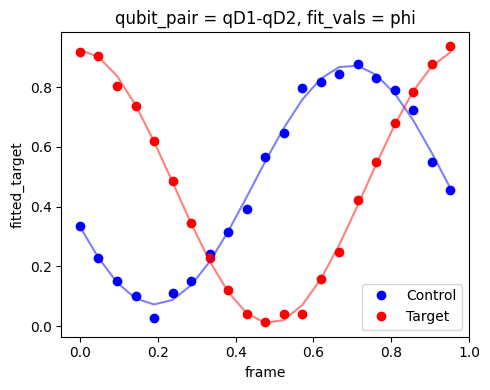
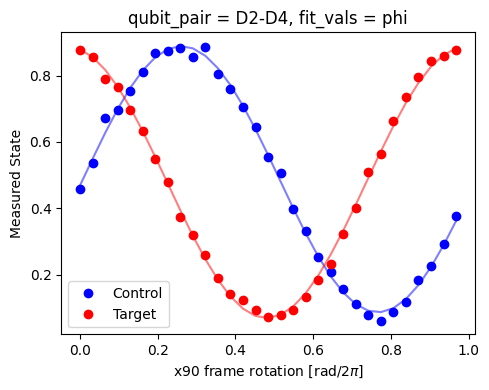
better individual phases plot

diff --git a/qualibration_graphs/superconducting/calibration_utils/cz_phase_compensation/plotting.py b/qualibration_graphs/superconducting/calibration_utils/cz_phase_compensation/plotting.py
@@ -38,7 +38,12 @@ def plot_raw_data_with_fit(ds_raw: xr.Dataset, qubit_pairs: Quam, ds_fit: xr.Dat
                     qp_fit_data.fitted_control.plot(ax=ax, color="blue", alpha=0.5)
                 if "fitted_target" in ds_fit.data_vars:
                     qp_fit_data.fitted_target.plot(ax=ax, color="red", alpha=0.5)
+        if "state_control" in ds_raw.data_vars:
+            ax.set_ylabel("Measured State")
+        else:
+            ax.set_ylabel("Rotated I Quadrature [V]")
 
+        ax.set_xlabel(r"x90 frame rotation [$\mathrm{rad}/2\pi$]")
         ax.legend()
 
     plt.tight_layout()

diff --git a/qualibration_graphs/superconducting/calibrations/CZ_calibration_fixed_couplers/21_cz_phase_compensation.py b/qualibration_graphs/superconducting/calibrations/CZ_calibration_fixed_couplers/21_cz_phase_compensation.py
@@ -58,9 +58,7 @@ node = QualibrationNode[Parameters, Quam](
 def custom_param(node: QualibrationNode[Parameters, Quam]):
     """Allow the user to locally set the node parameters for debugging purposes, or execution in the Python IDE."""
     # You can get type hinting in your IDE by typing node.parameters.
-    node.parameters.qubit_pairs = ["D2-D4"]
-    node.parameters.reset_type = "active"
-    node.parameters.use_state_discrimination = False
+    # node.parameters.qubit_pairs = ["q1-q2"]
     pass
 
 

diff --git a/qualibration_graphs/superconducting/calibrations/CZ_calibration_fixed_couplers/README.md b/qualibration_graphs/superconducting/calibrations/CZ_calibration_fixed_couplers/README.md
@@ -60,8 +60,6 @@ The calibration sequence ensures accurate compensation of intrinsic distortions 
 
 To achieve high-fidelity operation, flux lines tuning the qubit frequency must be characterized and corrected for distortion. Two complementary methods are used to characterize long- and short-timescale distortions.
 
-The fitting parameters for the exponential-fit time constants can be tuned interactively by loading the dataset via its ID and committing the changes using the `update_state_from_GUI` flag.
-
 ### Qubit Spectroscopy vs. Flux Delay
 [(17_pi_vs_flux_long_distortions)](../1Q_calibrations/17_pi_vs_flux_long_distortions.py)
 
@@ -88,11 +86,11 @@ This method, introduced in [2], consists of sweeping the duration of a square fl
 
 ### Intended Usage
 
-These two nodes are designed for interactive parameter fitting through the **QUAlibrate GUI**:
+These two nodes are designed for interactive parameter fitting through the **QUAlibrate GUI**. The fitting parameters for the exponential-fit time constants can be tuned interactively by loading the dataset via its ID and committing the changes using the `update_state_from_GUI` flag. Intended calibration workflow:
 
-1. Acquire data with `update_state=False`.
-2. If the data is suitable, load it by its ID and adjust the fitting parameters interactively.
-3. Once a good fit is obtained, set `update_state_from_GUI=True` and press **RUN** to update the filters in the QuAM state.
+- User acquires data with the `update_state` flag set to `False`.
+- If the data is judged to be good for fitting the user then loads the dataset via it's load id <span style="color:red">(1)</span> and starts interating with the fitting parameters <span style="color:red">(2)</span>.
+- Once a good set of parameters is found, the user can set `update_state_from_GUI` to `True` <span style="color:red">(3)</span> and press RUN <span style="color:red">(4)</span> to update the fitted filters to the Quam state.
 
 <p align="center">
    <img src="../.img/cs_fit_operation.png" width="500" alt="GUI operation">
@@ -141,7 +139,7 @@ The sequence involves preparing the states |0+⟩ and |1+⟩ (control, target), 
 
 During the CZ pulse, qubit frequencies shift, causing each qubit to acquire an additional phase. These phases must be measured and compensated via virtual Z rotations.
 
-The sequence prepares the |++⟩ state, applies the CZ pulse, and reconstructs each qubit’s phase using tomography with a rotating-phase x90 pulse.
+The sequence prepares the |++⟩ state, applies the CZ pulse, and reconstructs each qubit’s phase using tomography with a rotating-phase (frame) x90 pulse.
 
 <p align="center">
   <img src="../.img/individual_phases.png" width="500" alt="Individual qubit phase reconstruction">
